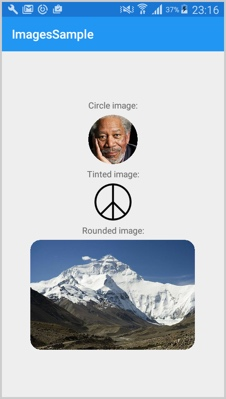
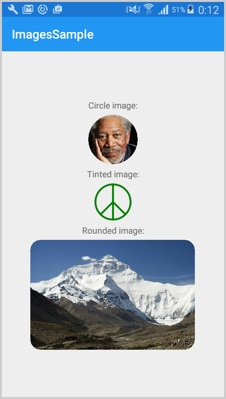
Tinted image support for Android

Changed region(s): [[0.5265, 0.0, 0.8982, 0.0602], [0.4027, 0.4511, 0.5885, 0.5714], [0.9292, 0.0, 0.9912, 0.0301]]

diff --git a/Uniforms.Images.Droid/TintedImageRenderer.cs b/Uniforms.Images.Droid/TintedImageRenderer.cs
@@ -1,0 +1,59 @@
+using System.Diagnostics;
+using System.ComponentModel;
+using Xamarin.Forms;
+using Xamarin.Forms.Platform.Android;
+using Uniforms.Images;
+using Uniforms.Images.Droid;
+
+[assembly: ExportRenderer (typeof (TintedImage), typeof (TintedImageRenderer))]
+
+namespace Uniforms.Images.Droid
+{
+    public class TintedImageRenderer : ImageRenderer
+    {
+        /// <summary>
+        /// Used for registration with dependency service
+        /// </summary>
+        public static void Init ()
+        {
+        }
+
+        /// <summary>
+        /// Handles the element changed event.
+        /// </summary>
+        protected override void OnElementChanged (ElementChangedEventArgs<Image> e)
+        {
+            base.OnElementChanged (e);
+
+            UpdateTintcolor ();
+        }
+
+        /// <summary>
+        /// Handles the element property changed event.
+        /// </summary>
+        protected override void OnElementPropertyChanged (object sender, PropertyChangedEventArgs e)
+        {
+            base.OnElementPropertyChanged (sender, e);
+
+            if (e.PropertyName == Image.SourceProperty.PropertyName ||
+                e.PropertyName == TintedImage.TintColorProperty.PropertyName) {
+                UpdateTintcolor ();
+            }
+        }
+
+        /// <summary>
+        /// Updates the tint color.
+        /// </summary>
+        void UpdateTintcolor ()
+        {
+            if ((Element == null) || (Control == null)) {
+                return;
+            }
+
+            var image = Element as TintedImage;
+
+            //Control.ImageTintMode = PorterDuff.Mode.Src;
+            Control.SetColorFilter (image.TintColor.ToAndroid ());
+        }
+    }
+}

diff --git a/Uniforms.Images.iOS/TintedImageRenderer.cs b/Uniforms.Images.iOS/TintedImageRenderer.cs
@@ -56,24 +56,19 @@ namespace Uniforms.Images.iOS
         /// </summary>
         void UpdateTintcolor()
         {
-            if ((Control == null) || (Control.Image == null))
-            {
+            if ((Control == null) || (Control.Image == null)) {
                 return;
             }
 
-            var el = Element as TintedImage;
+            var image = Element as TintedImage;
 
-            if (el.TintColor == Color.Default)
-            {
-                if (Control.Image.RenderingMode == UIImageRenderingMode.AlwaysTemplate)
-                {
-                    Control.Image = Control.Image.ImageWithRenderingMode(UIImageRenderingMode.Automatic);
+            if (image.TintColor == Color.Default) {
+                if (Control.Image.RenderingMode == UIImageRenderingMode.AlwaysTemplate) {
+                    Control.Image = Control.Image.ImageWithRenderingMode (UIImageRenderingMode.Automatic);
                 }
-            }
-            else
-            {
-                Control.Image = Control.Image.ImageWithRenderingMode(UIImageRenderingMode.AlwaysTemplate);
-                Control.TintColor = el.TintColor.ToUIColor();
+            } else {
+                Control.Image = Control.Image.ImageWithRenderingMode (UIImageRenderingMode.AlwaysTemplate);
+                Control.TintColor = image.TintColor.ToUIColor ();
             }
         }
     }

diff --git a/Uniforms.Images.Droid/RoundedImageRenderer.cs b/Uniforms.Images.Droid/RoundedImageRenderer.cs
@@ -11,7 +11,6 @@ using Xamarin.Forms.Platform.Android;
 using Uniforms.Images;
 using Uniforms.Images.Droid;
 
-
 [assembly: ExportRenderer(typeof(RoundedImage), typeof(RoundedImageRenderer))]
 
 namespace Uniforms.Images.Droid
@@ -20,12 +19,12 @@ namespace Uniforms.Images.Droid
     /// Rounded image renderer.
     /// </summary>
     [Preserve]
-    public class RoundedImageRenderer : ImageRenderer
+    public class RoundedImageRenderer : TintedImageRenderer
     {
         /// <summary>
         /// Used for registration with dependency service
         /// </summary>
-        public static void Init() 
+        public static new void Init() 
         {
         }
 

diff --git a/Droid/MainActivity.cs b/Droid/MainActivity.cs
@@ -21,6 +21,7 @@ namespace ImagesSample.Droid
             base.OnCreate (bundle);
 
             global::Xamarin.Forms.Forms.Init (this, bundle);
+            Uniforms.Images.Droid.TintedImageRenderer.Init ();
             Uniforms.Images.Droid.RoundedImageRenderer.Init ();
 
             LoadApplication (new App ());
